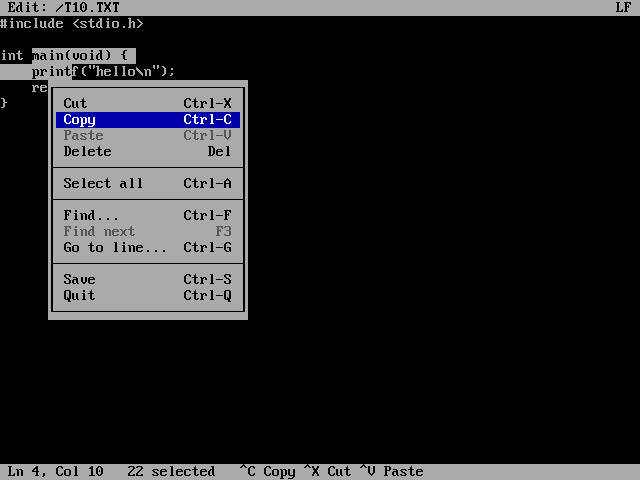
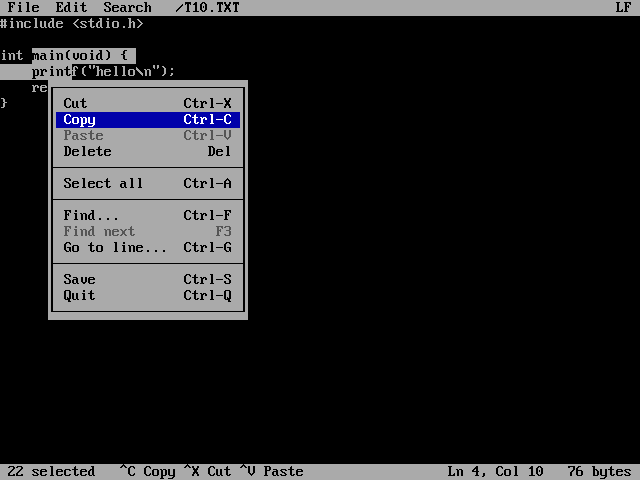
edit: the status row's right end always shows the line, column and file size (as saved, CRs counted for CR LF files)

diff --git a/src/editor.c b/src/editor.c
@@ -62,6 +62,8 @@ static char *buf;
 ///@{
 static int gap_start, gap_end;
 ///@}
+/// The line ends in the text (for the file's size with CR LF ends).
+static int newlines;
 
 // ---- Keeping the text safe in PSRAM -----------------------------------------
 /// Each 4 KB block has a checksum, worked out again when the editor changes
@@ -207,6 +209,8 @@ static bool insert_text(int pos, const char *s, int n) {
     memcpy(buf + gap_start, s, n);
     touch(buf + gap_start, n);
     gap_start += n;
+    for (int i = 0; i < n; ++i)
+        newlines += s[i] == '\n';
     return true;
 }
 
@@ -215,6 +219,8 @@ static bool insert_text(int pos, const char *s, int n) {
 /// @param n how much
 static void erase_text(int pos, int n) {
     move_gap(pos);
+    for (int i = 0; i < n; ++i)
+        newlines -= buf[gap_end + i] == '\n';
     gap_end += n;
 }
 
@@ -528,22 +534,30 @@ static void draw_bars(const char *status) {
     memcpy(row + COLS - strlen(right), right, strlen(right));
     put_row(0, row, 0, COLS);
 
-    if (!status) {
-        static char st[COLS + 1];
-        int sa, sb;
-        if (message[0])
-            snprintf(st, sizeof st, " %.*s", COLS - 1, message);
-        else if (selection(&sa, &sb))
-            snprintf(st, sizeof st, " Ln %d, Col %d   %d selected   ^C Copy ^X Cut ^V Paste",
-                     line_number(cur), col_of(cur) + 1, sb - sa);
-        else
-            snprintf(st, sizeof st, " Ln %d, Col %d   ^S Save ^Q Quit ^F Find ^G Go to ^K Cut ^U Paste",
-                     line_number(cur), col_of(cur) + 1);
-        status = st;
+    if (status) {
+        snprintf(row, sizeof row, "%s", status);
+        n = strlen(row);
+        memset(row + n, ' ', COLS - n);
+        put_row(ROWS - 1, row, 0, COLS);
+        return;
     }
-    snprintf(row, sizeof row, "%s", status);
+    // The message or the main keys on the left; on the right the cursor's
+    // line and column and the file's size (as saved), unless a long message
+    // needs the room.
+    char where[40];
+    snprintf(where, sizeof where, "Ln %d, Col %d   %d bytes ", line_number(cur), col_of(cur) + 1,
+             text_len() + (crlf ? newlines : 0));
+    int wn = strlen(where), sa, sb;
+    if (message[0])
+        snprintf(row, sizeof row, " %.*s", COLS - 1, message);
+    else if (selection(&sa, &sb))
+        snprintf(row, sizeof row, " %d selected   ^C Copy ^X Cut ^V Paste", sb - sa);
+    else
+        snprintf(row, sizeof row, " ^S Save ^Q Quit ^F Find ^K Cut ^U Paste  F10 Menus");
     n = strlen(row);
     memset(row + n, ' ', COLS - n);
+    if (n + 2 + wn <= COLS)
+        memcpy(row + COLS - wn, where, wn);
     put_row(ROWS - 1, row, 0, COLS);
 }
 
@@ -705,6 +719,7 @@ static bool prompt(const char *label, char *text, int max) {
 static bool load(void) {
     gap_start = 0;
     gap_end = EDIT_MAX;
+    newlines = 0;
     crlf = false;
     if (!path[0]) {
         set_message("New file", NULL);
@@ -743,6 +758,8 @@ static bool load(void) {
         buf[n++] = buf[i];
     }
     gap_start = n;
+    for (int i = 0; i < n; ++i)
+        newlines += buf[i] == '\n';
     touch(buf, got);
     set_message("Read %.70s", path);
     return true;

diff --git a/tools/edittest/uitest.c b/tools/edittest/uitest.c
@@ -431,6 +431,9 @@ int main(void) {
     check("drag: \"hello world\" and its line end reversed", !strcmp(rev_span(&snaps[0], 1), "0-12"));
     check("drag: \"second\" reversed", !strcmp(rev_span(&snaps[0], 2), "0-6"));
     check("drag: the status row counts 18 selected", strstr(row_text(&snaps[0], ROWS - 1), "18 selected") != NULL);
+    check("status row: line, column and size on the right",
+          strstr(row_text(&snaps[0], ROWS - 1), "Ln 2, Col 7   30 bytes") != NULL);
+    check("status row: the size after Ctrl-X", strstr(row_text(&snaps[1], ROWS - 1), "Ln 1, Col 1   12 bytes") != NULL);
     check("Ctrl-X: the first row is \" line\"", !strcmp(row_text(&snaps[1], 1), " line"));
     check("Ctrl-X: nothing reversed now", !rev_span(&snaps[1], 1)[0]);
     check_file("Ctrl-X then Ctrl-V at the end", "T2.TXT", " line\nthird\nhello world\nsecond");
@@ -535,6 +538,17 @@ int main(void) {
         check("drag past the bottom: the cut is line 27 to under the pointer",
               !strncmp(got, want, strlen(want)) && !strncmp(got + strlen(want), rest, strlen(rest)));
     }
+
+    // A CR LF file: its size as saved counts the CRs.
+    put_file("T12.TXT", "ab\r\ncd\r\n");
+    snap(0);
+    keys("x\x13");
+    snap(1);
+    keys("\x11");
+    run("/T12.TXT");
+    check("status row: a CR LF file's size", strstr(row_text(&snaps[0], ROWS - 1), "Ln 1, Col 1   8 bytes") != NULL);
+    check("status row: after typing one", strstr(row_text(&snaps[1], ROWS - 1), "Ln 1, Col 2   9 bytes") != NULL);
+    check_file("CR LF kept", "T12.TXT", "xab\r\ncd\r\n");
 
     // The keys from before still work: Ctrl-K twice, Ctrl-U.
     put_file("T9.TXT", three);

diff --git a/docs/EDITOR_MANUAL.md b/docs/EDITOR_MANUAL.md
@@ -6,9 +6,11 @@ The full-screen text editor: `edit [file]` (or `ed`). It edits plain text files 
 
 `edit file` opens a file; a name that doesn't exist yet starts a new file.
 
-The screen has a title row, 28 text rows and a status row. The status row
-shows the line and column, and whether the file uses CRLF or LF line
-endings. The editor keeps whichever the file had.
+The screen has a title row (the menu bar and the file's name), 28 text rows
+and a status row. The status row shows messages or the main keys on the
+left, and on the right the cursor's line and column and the file's size in
+bytes, as it would be saved. The title row's right end says whether the
+file uses CRLF or LF line endings; the editor keeps whichever the file had.
 
 ![edit](editor.png)
 
